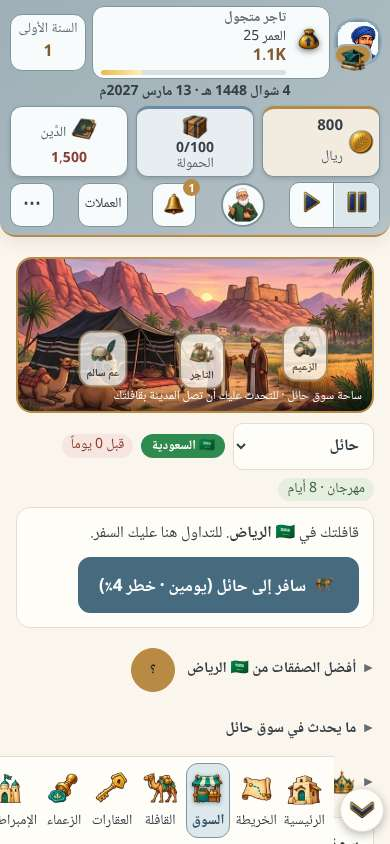
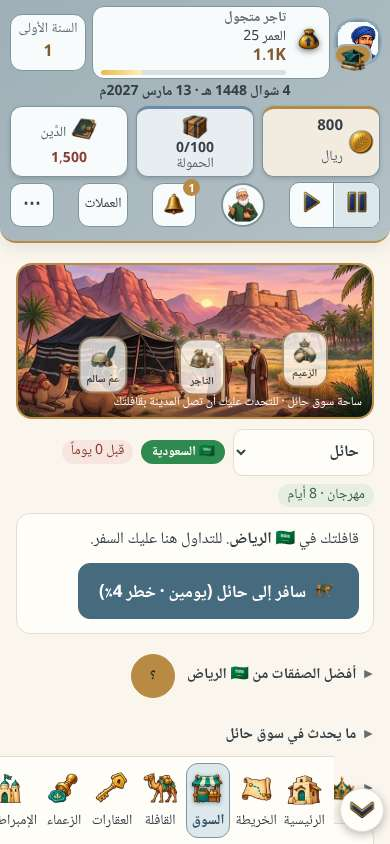
المهمة 18/1: حفظ مصادر تسع مدن للمراجعة دون تفعيلها قبل دورها

Changed region(s): [[0.0, 0.2464, 1.0, 0.8318], [0.4923, 0.7701, 0.9538, 0.8318], [0.5846, 0.8626, 0.9538, 0.955]]

diff --git a/docs/HANDOFF.md b/docs/HANDOFF.md
@@ -4,9 +4,9 @@
 
 الملف17 مكتمل، وبطلب المالك نُفذ الترتيب في CODEX_MASTER_PROMPT:19 ثم23 ثم25 ثم24 ثم21 و20 و22 ثم بقية18 (16 مكتمل). تعديلَا المالك18/0 مرفوعان272d81e و0c0ed09، والحزمة الكاملة171/0 في544.4ث.
 
-19/1: انسياب35ث أثناء الوقوف، مع بقاء إيقاع السفر، وإيقاف يدوي مميز وموانع القراءة/النوافذ/سالم/البطاقات/الطريق/التقاعد/إخفاء الصفحة واستئنافها. خيار ui.idleOff محفوظ، واختبارات webdriver معطلة افتراضياً إلاidle=1. اختبارidle-ui بالساعة الافتراضية نجح؛ المختص والنواة17/0 في163.9ث (guided142.8ث)، والسجل VALIDATION_TASK19_IDLE.txt. البند الصغير جاهز للدفع وفق إيقاع MASTER. لا مصدر اقتصادي تغير ولا إعادة قياس خارجي.
+19/1: انسياب35ث أثناء الوقوف، مع بقاء إيقاع السفر، وإيقاف يدوي مميز وموانع القراءة/النوافذ/سالم/البطاقات/الطريق/التقاعد/إخفاء الصفحة واستئنافها. خيار ui.idleOff محفوظ، واختبارات webdriver معطلة افتراضياً إلاidle=1. اختبارidle-ui بالساعة الافتراضية نجح؛ المختص والنواة17/0 في163.9ث (guided142.8ث)، والسجل VALIDATION_TASK19_IDLE.txt. البند مرفوعcadd2ca وفق إيقاع MASTER. لا مصدر اقتصادي تغير ولا إعادة قياس خارجي.
 
-التالي19/2: التزامات يومية وكشف مدفوعات وتنبيه7أيام وسداد المتأخر وكيف يعمل. لا يُدّعى اكتمال الملف19؛ الحزمة الكاملة التالية عند إغلاقه. صور7مدن جاهزة محفوظة فيstash، وصورتا شيآن وقوانغتشو المصححة فيgenerated_images؛ لا تفعيل جديد حتى دور18. شنغهاي لم تُولد بعد.
+التالي19/2: التزامات يومية وكشف مدفوعات وتنبيه7أيام وسداد المتأخر وكيف يعمل. لا يُدّعى اكتمال الملف19؛ الحزمة الكاملة التالية عند إغلاقه. مصادر9مدن محفوظة فيreview/city-previews معpending-city-sheets.json المنفصل؛7مصادر ذات قص مدقق وشيآن وقوانغتشو المصححة قبل القص. نسخة إضافية فيstash للأصول7والإحداثيات لا تُطبق قبل دور18؛ كل المصادر الأساسية محفوظة علىGitHub. لا تفعيل جديد حتى دور18. شنغهاي لم تُولد بعد.
 
 ## الأحدث — إغلاق تعديلَي المالك في18/0
 

diff --git a/docs/REVIEW_QUEUE.md b/docs/REVIEW_QUEUE.md
@@ -191,3 +191,10 @@
 - أثناء التطوير صُحّحت حلقة مراقبة DOM بتحديث نص الزر فقط عند تغيّره؛ حالة الاختبار تمنع أحداث المجلس والتعليقات غير المقصودة وتختبر البطاقة صراحةً. لا اختبارات قديمة مخففة ولا دفع لنسخة مخفقة.
 
 - اعتماد19/1:17/0 في163.9ث؛ أبطأ اختبار142.8ث. السجل VALIDATION_TASK19_IDLE.txt، مع النواة والإرشاد والرحلة والوصول والسرعات والنسخ والخطوط. لا ادعاء بتشغيل172اختباراً كاملة على هذا البند؛ الكاملة السابقة171اختباراً على مرحلة الواجهة.
+
+## المهمة18/1 — حفظ المصادر المكتملة دون تفعيل
+
+- أُخرجت7لوحات منstash وأُضيفت شيآن وقوانغتشو المصححة،9مصادر فيreview/city-previews؛pending-city-sheets.json منفصل عن سجل8مدن الفعلي. لا تعديل runtime أوbrand/img ولا تفعيلمدن جديدة. غرض الدفعة حفظ الجاهز علىGitHub ثم متابعة19حسبMASTER.
+- عين المراجع: أسوان وشيراز بعمائم مصححة، وقوانغتشو دون كتابة؛ شيآن وقوانغتشو يحتاجان قصاً وتدقيقاً عند دور18. شنغهاي غير مولدة. تحققcity-scenes والنواة قبل الدفع، دون إعادة الحزمة الكاملة لمصدر لم يتغير.
+
+- حفظ المصادر: city-scenes والنواة9/0؛ جميع المصادر محفوظة للمراجعة فقط.

diff --git a/docs/review/city-previews/README.md b/docs/review/city-previews/README.md
@@ -15,3 +15,10 @@
 ## الدفعة الحالية
 
 المدن المفعلة: الرياض وجدة وحائل وجازان ومكة والمدينة والقاهرة والإسكندرية (48صورة). حدود القص ومصدر كل لوحة جديدة فيcity-sheets.json. جميع الأوقات والمواسم مختبرة لكل مدينة مفعلة؛ المدن10الأخرى تستعمل الأصل إلى أن تكتمل صورها. ملفاتlive لقطات حقيقية وليست تركيباً.
+
+
+## أرشيف المتبقي — محفوظ للمراجعة فقط
+
+هذه اللوحات غير مربوطة باللعبة: aswan وisfahan وshiraz وtabriz وdelhi وmumbai وkolkata وxian وguangzhou. أول7منها لها إحداثيات قص مراجعة فيpending-city-sheets.json (منفصل تماماً عنcity-sheets.json الفعلي). شيآن وقوانغتشو محفوظتان كمصدر؛ قصهما للتأكد عند دور18. قوانغتشو هي النسخة المصححة لإزالة الكتابة، وأسوان وشيراز نسختا العمامة المصححتان.
+
+لا توضع هذه المصادر فيbrand/img ولا تُفعل بالتزامن مع19. المشاهد الحالية8مدن/48صورة. شنغهاي لم تُولد بعد. عند العودة18: تحقق بصرياً من القص، واستورد الأصول بأسماء جديدة عبرcrop-city-scenes ثم اختبر كل108صور قبل اعتماداكتمال18مدينة. لا تستعمل النسخ المرفوضة الموجودة فيgenerated_images.

diff --git a/docs/guide/CHANGELOG.md b/docs/guide/CHANGELOG.md
@@ -1,3 +1,5 @@
+- [لاعب] 2026-10-23: المشاهد الزمنية والموسمية متاحة في8مدن؛ بقية المدن تستخدم صورها الأصلية حتى تدقيق لوحاتها.
+- [مبرمج] 2026-10-23: المهمة18/1: حفظ9مصادر مدن للمراجعة وملف قص pending منفصل؛ التفعيل مؤجل وفق ترتيب MASTER ولا صور قديمة معدلة.
 - [لاعب] 2026-10-23: الوقت يمضي أثناء الوقوف بيوم كل35ث، ويتوقف عند القراءة والنوافذ؛ يمكنك إيقافه يدوياً أو من خيار محفوظ في القائمة.
 - [مبرمج] 2026-10-23: المهمة19/1: IDLE_SEC_PER_DAY=35، مجدول ثابت لا تعيده إعادة الرسم، موانع واجهة وظهور الصفحة، واختبار ساعة افتراضية مع ?idle=1 دون تغيير المحرك.
 - [لاعب] 2026-10-23: إزالة صف اشترِ وبِع وسافر وابنِ المكرر؛ يبقى التنقل الرئيسي مع مساحة أوسع للمحتوى.
